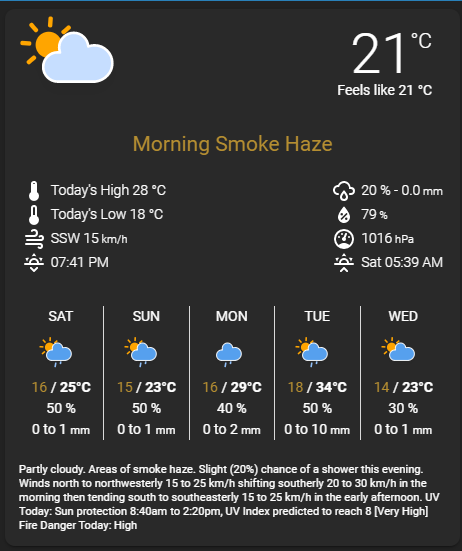
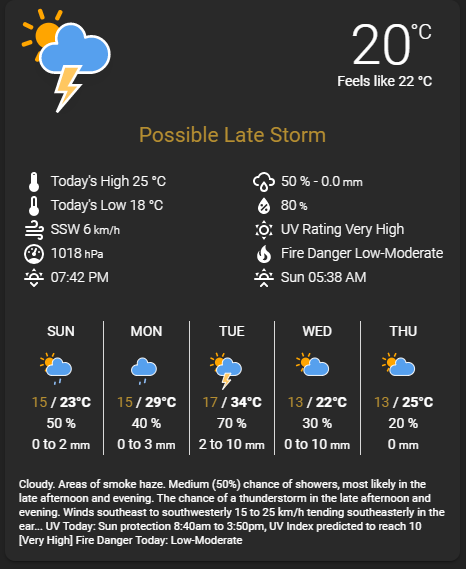
add new slots and defaults to card

diff --git a/bom-weather-card.js b/bom-weather-card.js
@@ -42,12 +42,14 @@ class BOMWeatherCard extends LitElement {
               ${this.getSlot().l2}
               ${this.getSlot().l3}
               ${this.getSlot().l4}
+              ${this.getSlot().l5}
             </li>
             <li>
               ${this.getSlot().r1}
               ${this.getSlot().r2}
               ${this.getSlot().r3}
               ${this.getSlot().r4}
+              ${this.getSlot().r5}
             </li>
           </ul>
         </span>
@@ -82,10 +84,12 @@ class BOMWeatherCard extends LitElement {
       'r2' : this.slotValue('r2',this.config.slot_r2),
       'r3' : this.slotValue('r3',this.config.slot_r3),
       'r4' : this.slotValue('r4',this.config.slot_r4),
+      'r5' : this.slotValue('r5',this.config.slot_r5),
       'l1' : this.slotValue('l1',this.config.slot_l1),
       'l2' : this.slotValue('l2',this.config.slot_l2),
       'l3' : this.slotValue('l3',this.config.slot_l3),
       'l4' : this.slotValue('l4',this.config.slot_l4),
+      'l5' : this.slotValue('l5',this.config.slot_l5),
     }
   }
 
@@ -131,13 +135,15 @@ class BOMWeatherCard extends LitElement {
     // If no value can be matched pass back a default for the slot
     switch (slot){
       case 'l1': return daytimeHigh;
-      case 'l2': return wind;
-      case 'l3': return visibility;
-      case 'l4': return sunNext;
+      case 'l2': return daytimeLow;
+      case 'l3': return wind;
+      case 'l4': return pressure;
+      case 'l5': return sunNext;
       case 'r1': return pop;
       case 'r2': return humidity;
-      case 'r3': return pressure;
-      case 'r4': return sunFollowing;
+      case 'r3': return uv_summary;
+      case 'r4': return fire_summary;
+      case 'r5': return sunFollowing;
     }
   }
   

diff --git a/README.md b/README.md
@@ -264,13 +264,15 @@ show_beaufort: true
 | summary_top_padding      | **1em** / px or em                 | Sets the gap between the forecast and summary text                          |
 | summary_font_size        | **0.8em** / px or em               | Sets the font size for the summary text                                     |
 | slot_l1                  | **daytime_high**                   | Sets the value used in current conditions slot l1 : See slots for more info |
-| slot_l2                  | **wind**                           | Sets the value used in current conditions slot l2 : See slots for more info |
-| slot_l3                  | **visibility**                     | Sets the value used in current conditions slot l3 : See slots for more info |
-| slot_l4                  | **sun_next**                       | Sets the value used in current conditions slot l4 : See slots for more info |
+| slot_l2                  | **daytime_low**                    | Sets the value used in current conditions slot l2 : See slots for more info |
+| slot_l3                  | **wind**                           | Sets the value used in current conditions slot l3 : See slots for more info |
+| slot_l4                  | **pressure**                       | Sets the value used in current conditions slot l4 : See slots for more info |
+| slot_l5                  | **sun_next**                       | Sets the value used in current conditions slot l4 : See slots for more info |
 | slot_r1                  | **pop**                            | Sets the value used in current conditions slot r1 : See slots for more info |
 | slot_r2                  | **humidity**                       | Sets the value used in current conditions slot r2 : See slots for more info |
-| slot_r3                  | **pressure**                       | Sets the value used in current conditions slot r3 : See slots for more info |
-| slot_r4                  | **sun_following**                  | Sets the value used in current conditions slot r4 : See slots for more info |
+| slot_r3                  | **uv_summary**                     | Sets the value used in current conditions slot r3 : See slots for more info |
+| slot_r4                  | **fire_summary**                   | Sets the value used in current conditions slot r4 : See slots for more info |
+| slot_r5                  | **sun_following**                  | Sets the value used in current conditions slot r4 : See slots for more info |
 
 
 **Slots**

diff --git a/info.md b/info.md
@@ -1,7 +1,7 @@
 # BOM Weather Card
 
 ## Changes
-
+Due to the fact I have added some more entities, I am adding an extra slot, l5 and r5 that you can configure. Defaults for all slots have been changed from original to what is shown in the graphic. this is a POTENTIAL BREAKING CHANGE if you are using the default slots (by not configuring them yourself)
 Added new UV_Alert and Fire_danger conditions from the BOM FTP Component. In addition to a template, they require 2-4 new lines in the lovelace config.
 (the sample weather.yaml includes all templates)
 Template:
